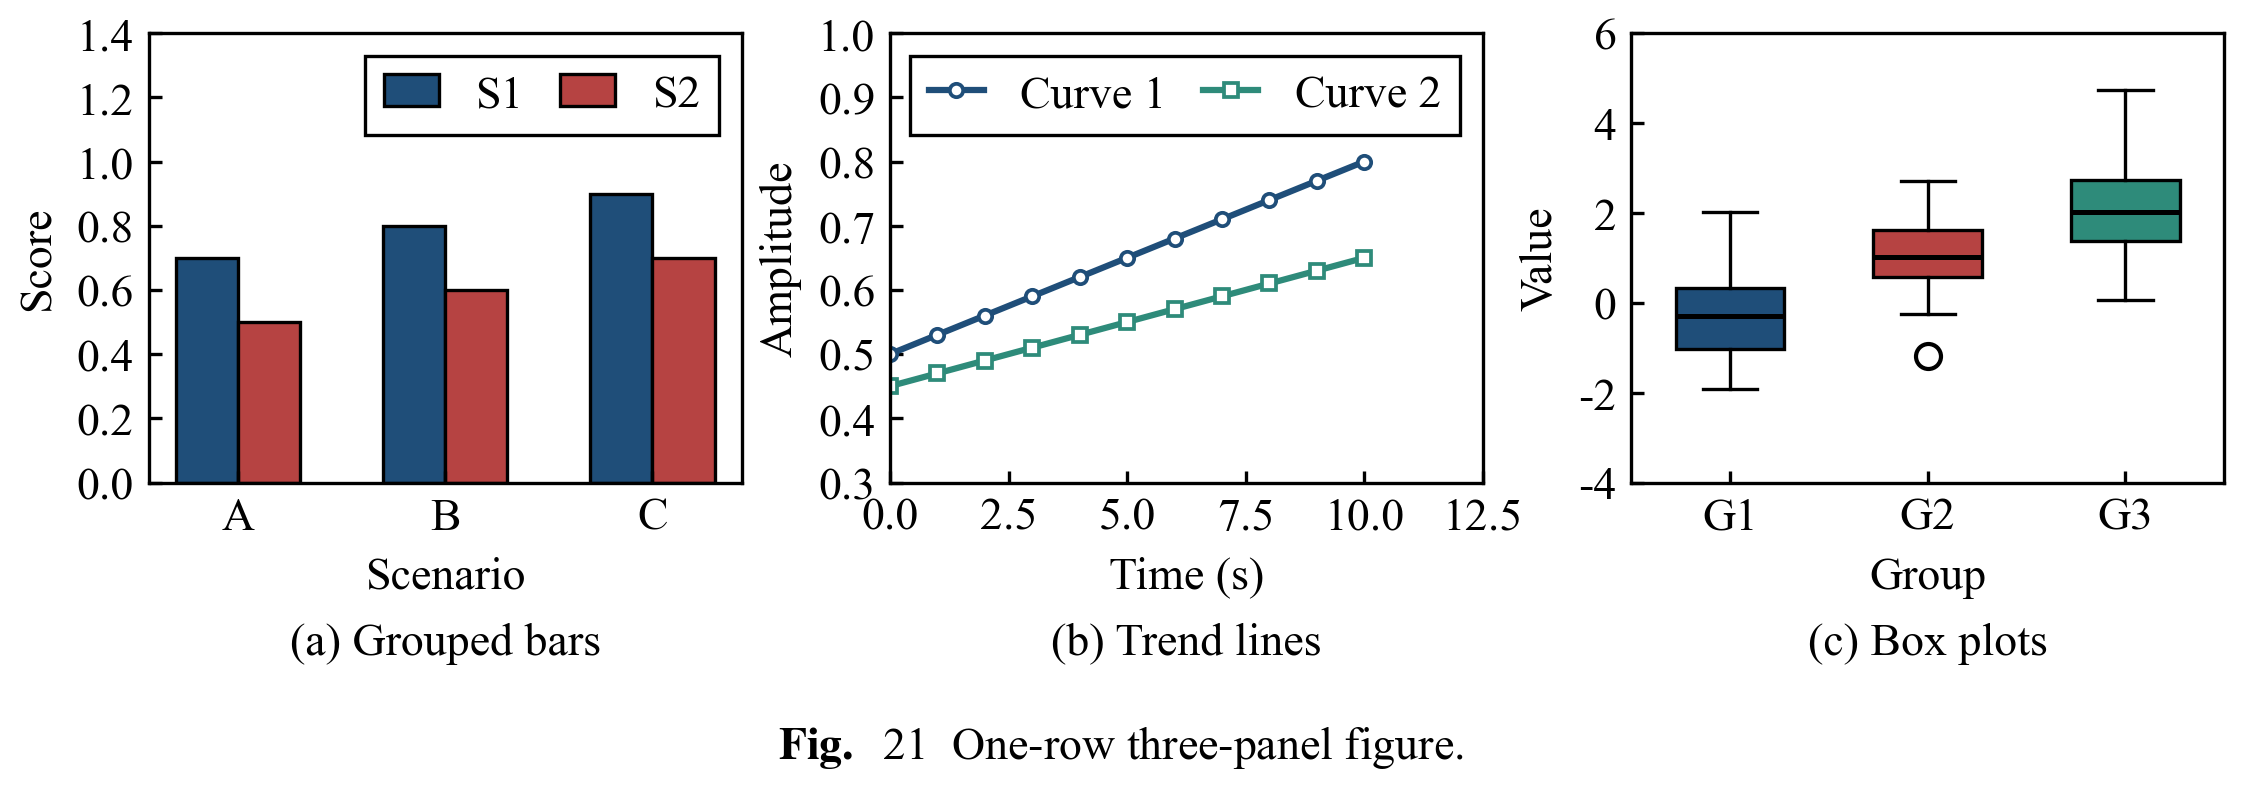
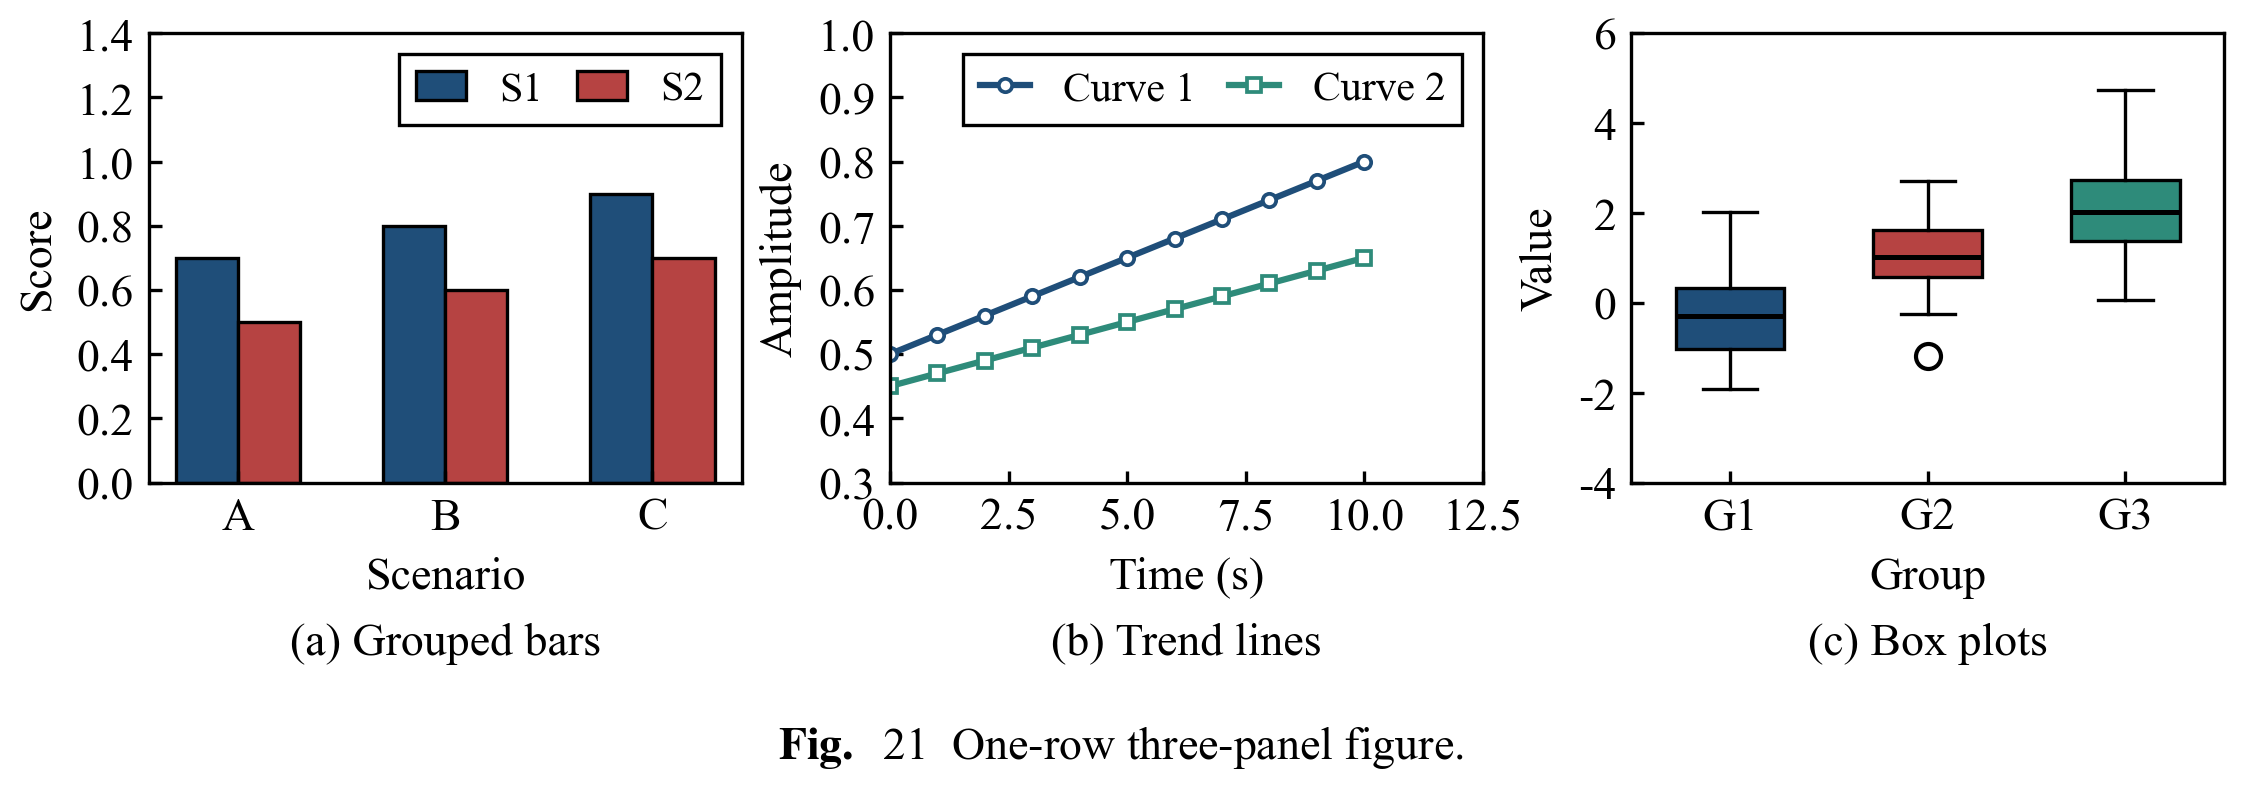
Restore the legend to 10 pt while body text stays 11 pt
- WXL_FONTSIZE['legend'] = 10, WXLStyle.legend_size = 10.0; caption, label, tick,
  annotation and panel text remain 11 pt
- check_wxl_style now separates legend text (checked at legend_size) from the
  rest (checked at font_size), so a 10 pt legend passes while body text must be
  11 pt
- docs updated: 11 pt body / 10 pt legend everywhere
- 21 gallery types, both column layouts, the Word report and the desktop demo all
  pass with zero warnings

Changed region(s): [[0.4059, 0.0609, 0.6557, 0.1827], [0.1561, 0.0609, 0.3434, 0.1827]]

diff --git a/assets/wxl_style.py b/assets/wxl_style.py
@@ -56,10 +56,10 @@ WXL_SERIES = [
     WXL_PALETTE["accent"], WXL_PALETTE["secondary"], WXL_PALETTE["neutral"],
 ]
 
-#: Uniform 11 pt type scale (10 pt increased by one step).
+#: 11 pt type scale for body text, with the legend restored to 10 pt.
 WXL_FONTSIZE = {
     "caption": 11, "label": 11, "tick": 11,
-    "legend": 11, "annot": 11, "panel": 11,
+    "legend": 10, "annot": 11, "panel": 11,
 }
 
 #: Figure width = final print width, so 11 pt stays 11 pt after insertion.
@@ -119,7 +119,7 @@ class WXLStyle:
     font_size: float = 11.0        # base text size (pt)
     caption_size: float = 11.0
     tick_size: float = 11.0
-    legend_size: float = 11.0
+    legend_size: float = 10.0
     annot_size: float = 11.0
     axes_linewidth: float = 0.8
     line_width: float = 1.5
@@ -1078,6 +1078,18 @@ def check_wxl_style(fig, style: WXLStyle | None = None, strict_sizes: bool = Tru
     soft: list[str] = []
     fonts: set[str] = set()
     sizes: set[float] = set()
+    legend_sizes: set[float] = set()
+
+    # legend text objects are verified separately at legend_size
+    try:
+        fig.canvas.draw()
+        legend_text_ids = set()
+        for ax in fig.get_axes():
+            leg = ax.get_legend()
+            if leg is not None:
+                legend_text_ids.update(id(t) for t in leg.get_texts())
+    except Exception:                                  # pragma: no cover
+        legend_text_ids = set()
 
     # ---- text: font file and size -------------------------------------
     for t in fig.findobj(lambda a: isinstance(a, mtext.Text)):
@@ -1085,18 +1097,28 @@ def check_wxl_style(fig, style: WXLStyle | None = None, strict_sizes: bool = Tru
             continue
         fp = t.get_fontproperties()
         fonts.add(Path(findfont(fp)).name.lower())
-        sizes.add(round(float(fp.get_size()), 2))
+        s = round(float(fp.get_size()), 2)
+        if id(t) in legend_text_ids:
+            legend_sizes.add(s)
+        else:
+            sizes.add(s)
     for f in sorted(fonts):
         if not _font_is_allowed(f):
             problems.append(
                 f"non-house font in use: {f} (expected a Times New Roman file or "
                 f"a metric-compatible serif fallback)")
 
-    allowed_sizes = {round(float(st.font_size), 2)}
     if strict_sizes:
+        want = round(float(st.font_size), 2)
         for s in sorted(sizes):
-            if s not in allowed_sizes:
-                problems.append(f"font size {s} pt is outside the uniform {st.font_size:g} pt scale")
+            if abs(s - want) > 1e-9:
+                problems.append(
+                    f"font size {s} pt is outside the uniform {st.font_size:g} pt scale")
+        want_leg = round(float(st.legend_size), 2)
+        for s in sorted(legend_sizes):
+            if abs(s - want_leg) > 1e-9:
+                problems.append(
+                    f"legend font size {s} pt is outside {st.legend_size:g} pt")
 
     # ---- missing glyphs ----------------------------------------------
     with warnings.catch_warnings(record=True) as wlist:

diff --git a/SKILL.md b/SKILL.md
@@ -2,9 +2,8 @@
 name: figure-making-WXL
 description: >-
   Publication-ready matplotlib figures in the WXL house style for Elsevier,
-  IEEE and Springer submissions: every text element is Times New Roman at a
-  uniform 11 pt (so figure text matches Word 11 pt body text when the figure is
-  inserted at its original size), a deep-blue semantic palette, full-box axes,
+  IEEE and Springer submissions: every text element is Times New Roman at
+  11 pt (legend at 10 pt), with a deep-blue semantic palette, full-box axes,
   framed in-plot legends, inward ticks, no grid, captions below the figure, and
   figure widths fixed to the final print width (90 / 140 / 190 mm). Before
   plotting it always asks the user for the chart type, the x/y axis labels (and
@@ -59,8 +58,9 @@ These rules supersede any conflicting style text in `references/` or in upstream
    `axes.unicode_minus = False` because Times New Roman lacks U+2212. Bold and
    italic Times faces are allowed; never Helvetica, Arial or DejaVu Sans. CJK
    text falls back to SimSun.
-2. **Uniform 11 pt.** Caption, axis label, tick, legend and annotation are all
-   11 pt. The contract is checked; do not hand-tune individual sizes.
+2. **11 pt body, 10 pt legend.** Caption, axis label, tick and annotation are
+   11 pt; the legend text is 10 pt. The contract is checked; do not hand-tune
+   individual sizes.
 3. **Figure width = final print width.** `single` = 90 mm (3.54 in),
    `onehalf` = 140 mm (5.51 in), `double` = 190 mm (7.48 in). 11 pt in the
    figure equals Word 11 pt only when the image is inserted at its original

diff --git a/README.md b/README.md
@@ -72,7 +72,7 @@ the colours — the skill never decides these for them. See `references/preferen
 |---|---|
 | Target | Elsevier / IEEE / Springer |
 | Font | Times New Roman + STIX math, SimSun for CJK |
-| Type scale | uniform 11 pt (caption / label / tick / legend / annotation) |
+| Type scale | 11 pt body, legend 10 pt |
 | Palette | deep blue `#1F4E79` primary, `#B64342` contrast, `#2E8B7A` improve, `#E0A030` accent, `#7B7B7B` neutral, `#C9DCF0` light |
 | Axes | full box, 0.8 pt spines |
 | Legend | inside the axes, white face, black 0.8 pt border |

diff --git a/references/common-patterns.md b/references/common-patterns.md
@@ -65,8 +65,8 @@ The fix is a layout decision, not a style tweak, in this order:
 3. Give the legend its own subplot inside the same figure.
 4. Drop a series so the legend shrinks.
 
-Do not shrink the legend font: the uniform 11 pt rule is non-negotiable, and
-`check_wxl_style` rejects any other size.
+Do not shrink the legend font below 10 pt: the 11 pt body / 10 pt legend
+contract is non-negotiable, and `check_wxl_style` rejects any other size.
 
 ```python
 ax.set_axis_off()

diff --git a/references/design-theory.md b/references/design-theory.md
@@ -56,7 +56,7 @@ Verify after saving: `measure_width_mm("figures/result.png", 600)` should return
 | Figure caption | 11 pt | below the figure, centered |
 | Axis label | 11 pt | |
 | Tick label | 11 pt | |
-| Legend text | 11 pt | |
+| Legend text | 10 pt | |
 | Data annotation | 11 pt | |
 | Panel label `(a) Grouped bars` | 11 pt, not bold | centered below its own panel |
 

diff --git a/references/api.md b/references/api.md
@@ -39,7 +39,7 @@ Ordered color cycle used when a helper is called without explicit colors:
 {"caption": 11, "label": 11, "tick": 11, "legend": 11, "annot": 11, "panel": 11}
 ```
 
-Uniform 11 pt. This is the W1 contract; the audit fails on any other size.
+Uniform 11 pt for body text, 10 pt for the legend. The audit fails on any other size.
 
 ### WXL_FIGSIZE
 
